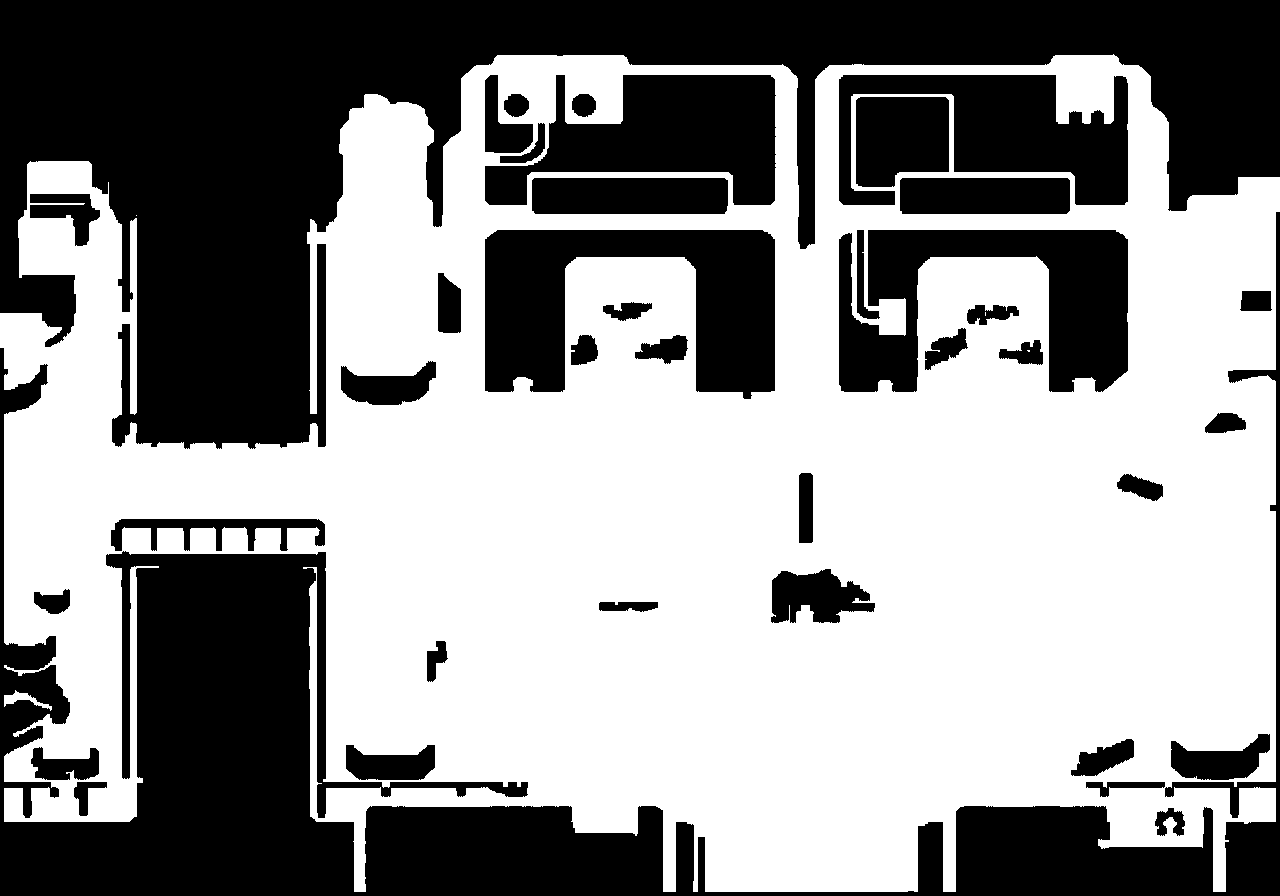
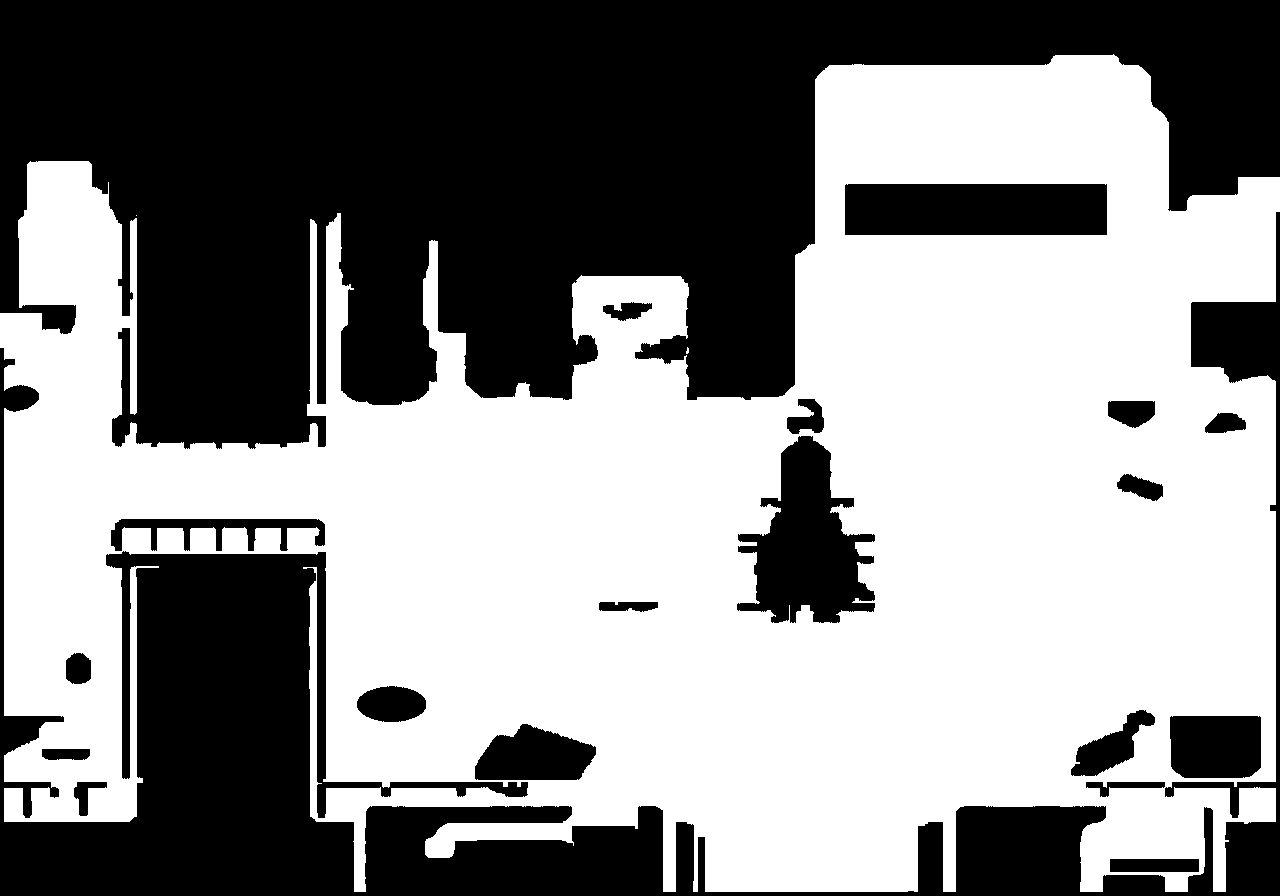
align: v5 rebuild anchorroom with v4 geometric footprints
Consumed v4 no-grid geometric footprints (method v4-geometric-nogrid)
and re-ran segment_room.py. Defects dropped from 5.1% to 3.0%: false-
walkable nearly eliminated (4.3% -> 0.04%), missed-walkable rose
moderately (0.8% -> 3.0%). All exits BFS-reachable, plateHash verified,
npm test 27/27.

diff --git a/tools/art-pipeline/STATUS.md b/tools/art-pipeline/STATUS.md
@@ -835,3 +835,34 @@ not found by manual inspection.
   night-bazaar, plaza-market-inside. All hashes verified matching.
 
 npm test: 27/27 (was 26/26, +1 new masks test).
+
+## Agent align-masks — v5 rebuild: anchorroom with v4 geometric footprints (2026-07-28)
+Consumed v4 no-grid geometric footprints (method v4-geometric-nogrid, 3.2% coverage,
+promoted by v4-footprints agent) and re-ran segment_room.py for anchorroom.
+
+**Before/after (anchorroom):**
+| Metric           | v2 compose (before) | v5 compose (after) |
+|------------------|--------------------:|-------------------:|
+| defect_frac      |              5.10%  |             2.99%  |
+| missed_walkable  |              0.77%  |             2.95%  |
+| false_walkable   |              4.33%  |             0.04%  |
+| walk_frac        |              0.566  |             0.546  |
+| footprint nbp    |    6 (broad bases)  |    9 (precise v4)  |
+| footprint missed |             12      |              9     |
+
+v4 geometric footprints eliminated nearly all false-walkable floor (4.3% -> 0.04%)
+by using precise base-contact-only masks instead of broad lower-band heuristics.
+Missed-walkable rose moderately (0.8% -> 3.0%) as more objects get full-blocked
+when their v4 footprint is too sparse for the per-instance threshold. Net defect
+rate improved from 5.1% to 3.0%.
+
+**Acceptance battery:**
+- npm test: 27/27 (plateHash verified matching)
+- BFS exit connectivity: all exits (e, w, legacy) reachable from spawn
+- verify_defects: 2.99% (under 10% threshold)
+- Judge (median-of-3): ground_coverage=9, object_blocking=8, boundary_fit=7
+  (door_access scored low due to edge-strip exits — false alarm, BFS confirms)
+- overhead.png subtraction: inert (no overhead.png exists yet for anchorroom)
+
+night-bazaar + plaza-market-inside: still on v2 compose (v4 footprints not yet
+emitted for these scenes; noted as pending).
